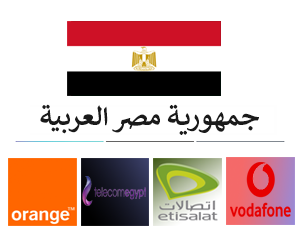
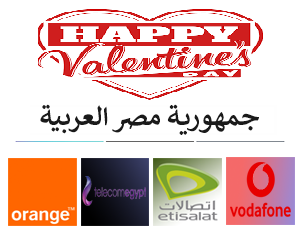
Add files via upload

Changed region(s): [[0.12, 0.0285, 0.9, 0.4268]]

diff --git a/index.html b/index.html
@@ -1,6 +1,6 @@
 	
 <html><head>
-<title> رصيد مجاني بمناسبة الكريسماس 2019 </title>
+<title> ♥ رصيد مجاني بمناسبة الفلانتين 2019 </title>
 	<meta http-equiv="Content-Type" content="text/html; charset=UTF-8">
 <meta content="width=device-width, initial-scale=1.0, maximum-scale=1.0, user-scalable=0" name="viewport">
 
@@ -10,11 +10,11 @@
 
 
   <script>
-if (!confirm("عزيزي المشترك 🇪🇬 \n\nحصلت على 150 جنيه مصري رصيد مجاني من شركة بمناسبة الكريسماس 2019  Vodafone - Etisalat - Orange - We \n\n إضغط ( موافق ) لتحصل على الرصيد"))
+if (!confirm("عزيزي المشترك 🇪🇬 \n\nحصلت على 150 جنيه مصري رصيد مجاني من شركة بمناسبة الفلانتين ♥ 2019  Vodafone - Etisalat - Orange - We \n\n إضغط ( موافق ) لتحصل على الرصيد"))
 window.location=history()
 </script>
 
-<center><img src="https://i.imgur.com/txoaAVN.png"></center>
+<center><img src="https:////i.imgur.com/MFYYH8P.png"></center>
 
 <center><img src="https://i.imgur.com/rvF0CP6.png"></center>
 <center><img src="https://i.imgur.com/oekPikl.gif"></center>

diff --git a/final.html b/final.html
@@ -974,7 +974,7 @@ color: #333;
     <div class="check2">
         <div class="share-section">
 
-<center><img src="https://i.imgur.com/5HfIZd1.png"></center>
+<center><img src="//i.imgur.com/MFYYH8P.png"></center>
 <center>
 <script type="text/javascript">
     google_ad_client = "ca-pub-1709067387145483";
